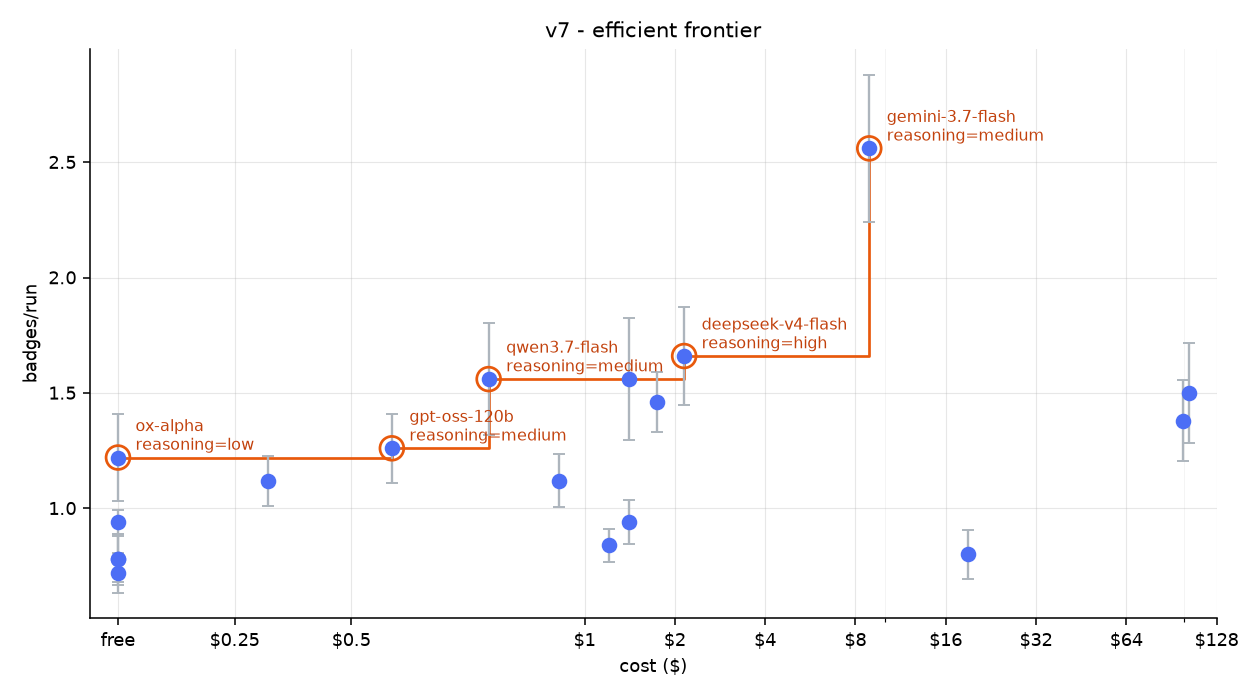
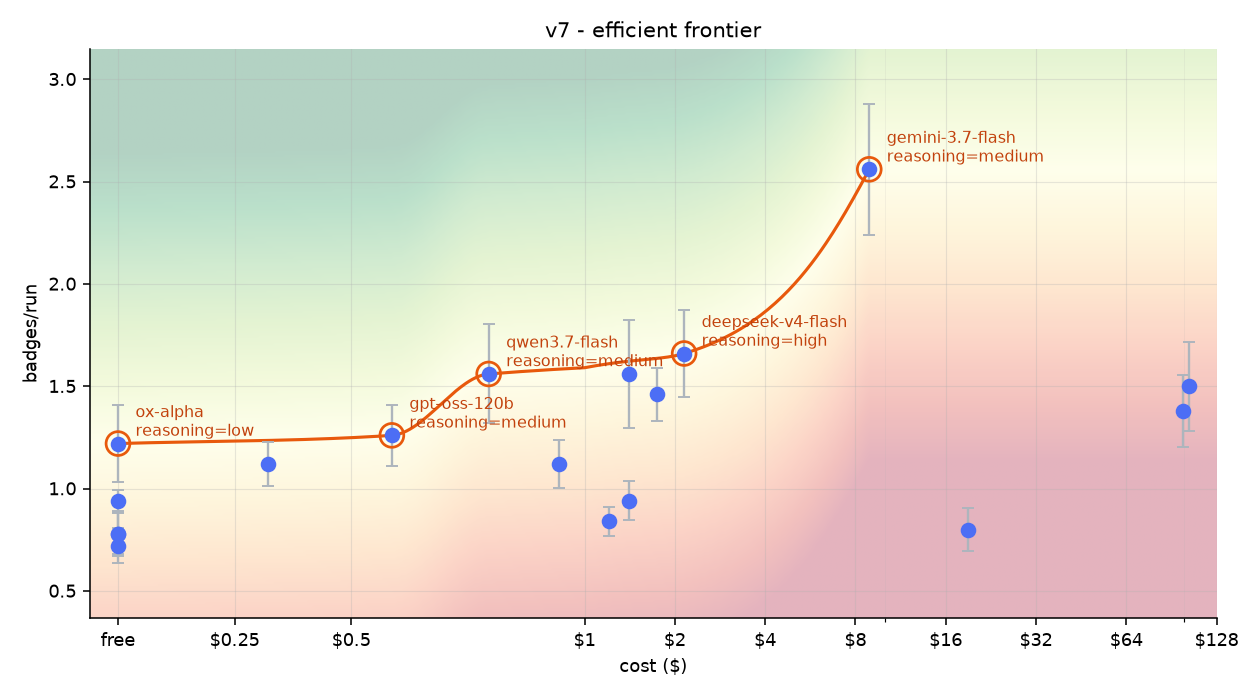
feat(bench): curve the frontier and tint the plane around it
The frontier line is drawn as a monotone curve through its points, with tangents
from Fritsch and Carlson so it cannot dip below a point it passes through. A
staircase is the literal truth, since nothing buys a fraction of a badge, and the
curve makes the same claim.

Behind it the plane is tinted from the same curve. A place above the frontier holds
more badges than anything reached at that price or less and is tinted green, and a
place below is beaten by something no dearer and is tinted red. The colour
saturates at the distance most passes sit from the line, so the picture is not pale
where no pass lives. The tint is one image laid over the axes rather than a mesh,
because a mesh with transparency shows its quad edges as seams.

diff --git a/src/pokelike/harness/llmbench/charts.py b/src/pokelike/harness/llmbench/charts.py
@@ -98,6 +98,86 @@ def _frontier(points: list[tuple[float, float]]) -> list[int]:
     return sorted(keep, key=lambda i: points[i][0])
 
 
+def _monotone_curve(xs: list[float], ys: list[float],
+                    n: int = 240) -> tuple[list[float], list[float]]:
+    """Returns a dense curve through the given points that never turns back.
+
+    The tangents come from Fritsch and Carlson, so the curve rises where the points
+    rise and flattens where they flatten, and it cannot dip below a point it passes
+    through. A frontier is a staircase in truth, since nothing buys a fraction of a
+    badge, and this curve is the same claim drawn smoothly.
+    """
+    import numpy as np
+
+    x = [float(v) for v in xs]
+    y = [float(v) for v in ys]
+    if len(x) < 3:
+        return x, y
+    h = [x[i + 1] - x[i] for i in range(len(x) - 1)]
+    d = [(y[i + 1] - y[i]) / step if step else 0.0 for step, i in zip(h, range(len(h)))]
+    m = [0.0] * len(x)
+    m[0], m[-1] = d[0], d[-1]
+    for i in range(1, len(x) - 1):
+        if d[i - 1] * d[i] <= 0:
+            m[i] = 0.0
+        else:
+            w1, w2 = 2 * h[i] + h[i - 1], h[i] + 2 * h[i - 1]
+            m[i] = (w1 + w2) / (w1 / d[i - 1] + w2 / d[i])
+    out_x: list[float] = []
+    out_y: list[float] = []
+    for i in range(len(h)):
+        t = np.linspace(0, 1, max(2, n // len(h)))
+        h00 = 2 * t ** 3 - 3 * t ** 2 + 1
+        h10 = t ** 3 - 2 * t ** 2 + t
+        h01 = -2 * t ** 3 + 3 * t ** 2
+        h11 = t ** 3 - t ** 2
+        out_x += list(x[i] + t * h[i])
+        out_y += list(h00 * y[i] + h10 * h[i] * m[i]
+                      + h01 * y[i + 1] + h11 * h[i] * m[i + 1])
+    return out_x, out_y
+
+
+def _shade(ax: object, curve_x: list[float], curve_y: list[float],
+           pts: list[tuple[float, float]]) -> None:
+    """Tints the plane by how a place stands against the frontier.
+
+    A place above the frontier holds more badges than anything in the table reached at
+    that price or less, so it is tinted green. A place below the frontier is beaten by
+    something no dearer, so it is tinted red. The boundary between the two colours is
+    the drawn line itself, which is why the field is built from the same curve rather
+    than from a separate rule.
+
+    The tint is faint on purpose, because the positions and the error bars carry the
+    argument and this only says which way is better.
+    """
+    import numpy as np
+    from matplotlib.colors import TwoSlopeNorm
+
+    x0, x1 = ax.get_xlim()
+    y0, y1 = ax.get_ylim()
+    # The grid is even in the axis's own transformed space rather than in dollars, so
+    # one pixel of the picture covers one cell of the grid. The image is then laid over
+    # the axes as a whole, which leaves no quad edges to show as seams.
+    tx = ax.xaxis.get_transform()
+    lo, hi = tx.transform(np.array([x0, x1], dtype=float))
+    gx = tx.inverted().transform(np.linspace(lo, hi, 320))
+    gy = np.linspace(y0, y1, 260)
+    # Outside the range the frontier covers, the nearest end of it is carried across,
+    # because the cheapest pass sets what free money buys and the dearest sets the top.
+    level = np.interp(gx, np.asarray(curve_x), np.asarray(curve_y))
+    field = gy[:, None] - level[None, :]
+    # The colour saturates at the distance most of the recorded passes sit from the
+    # frontier, so the three colours carry the picture. Scaling to the whole height
+    # instead would leave everything pale, since the corners are far from the line and
+    # no pass lives there.
+    away = [abs(b - float(np.interp(c, curve_x, curve_y))) for c, b in pts]
+    reach = max(float(np.percentile(away, 85)) * 1.6, 0.3)
+    ax.imshow(field, extent=(0, 1, 0, 1), transform=ax.transAxes, origin="lower",
+              aspect="auto", cmap="RdYlGn", alpha=0.30, zorder=0,
+              norm=TwoSlopeNorm(vcenter=0.0, vmin=-reach, vmax=reach),
+              interpolation="bilinear")
+
+
 def cost_chart(version: str, path: Path,
                price: dict[str, dict[str, float]] | None = None) -> Path | None:
     """Draws what a version's badges cost, and the frontier of what is worth paying.
@@ -138,13 +218,19 @@ def cost_chart(version: str, path: Path,
     fig, ax = plt.subplots(figsize=(9.0, 5.0))
     xs = [p[0] for p in pts]
     ys = [p[1] for p in pts]
+    lo = min(y - e for y, e in zip(ys, sems))
+    hi = max(y + e for y, e in zip(ys, sems))
+    pad = (hi - lo) * 0.12 or 0.2
+    ax.set_ylim(lo - pad, hi + pad)
     ax.errorbar(xs, ys, yerr=sems, fmt="o", color="#4c6ef5", ecolor="#adb5bd",
                 elinewidth=1.2, capsize=3, markersize=7, zorder=3)
 
     front = _frontier(pts)
+    curve: tuple[list[float], list[float]] | None = None
     if len(front) > 1:
-        ax.step([pts[i][0] for i in front], [pts[i][1] for i in front],
-                where="post", color="#e8590c", linewidth=1.4, zorder=2)
+        curve = _monotone_curve([pts[i][0] for i in front],
+                               [pts[i][1] for i in front])
+        ax.plot(curve[0], curve[1], color="#e8590c", linewidth=1.6, zorder=2)
     for i in front:
         ax.scatter([pts[i][0]], [pts[i][1]], s=150, facecolors="none",
                    edgecolors="#e8590c", linewidths=1.4, zorder=4)
@@ -178,6 +264,8 @@ def cost_chart(version: str, path: Path,
     ax.grid(alpha=0.3, linewidth=0.6)
     ax.grid(axis="x", which="minor", alpha=0.14, linewidth=0.5)
     ax.set_axisbelow(True)
+    if curve is not None:
+        _shade(ax, *curve, pts)
     fig.tight_layout()
     path.parent.mkdir(parents=True, exist_ok=True)
     fig.savefig(path, dpi=140)
